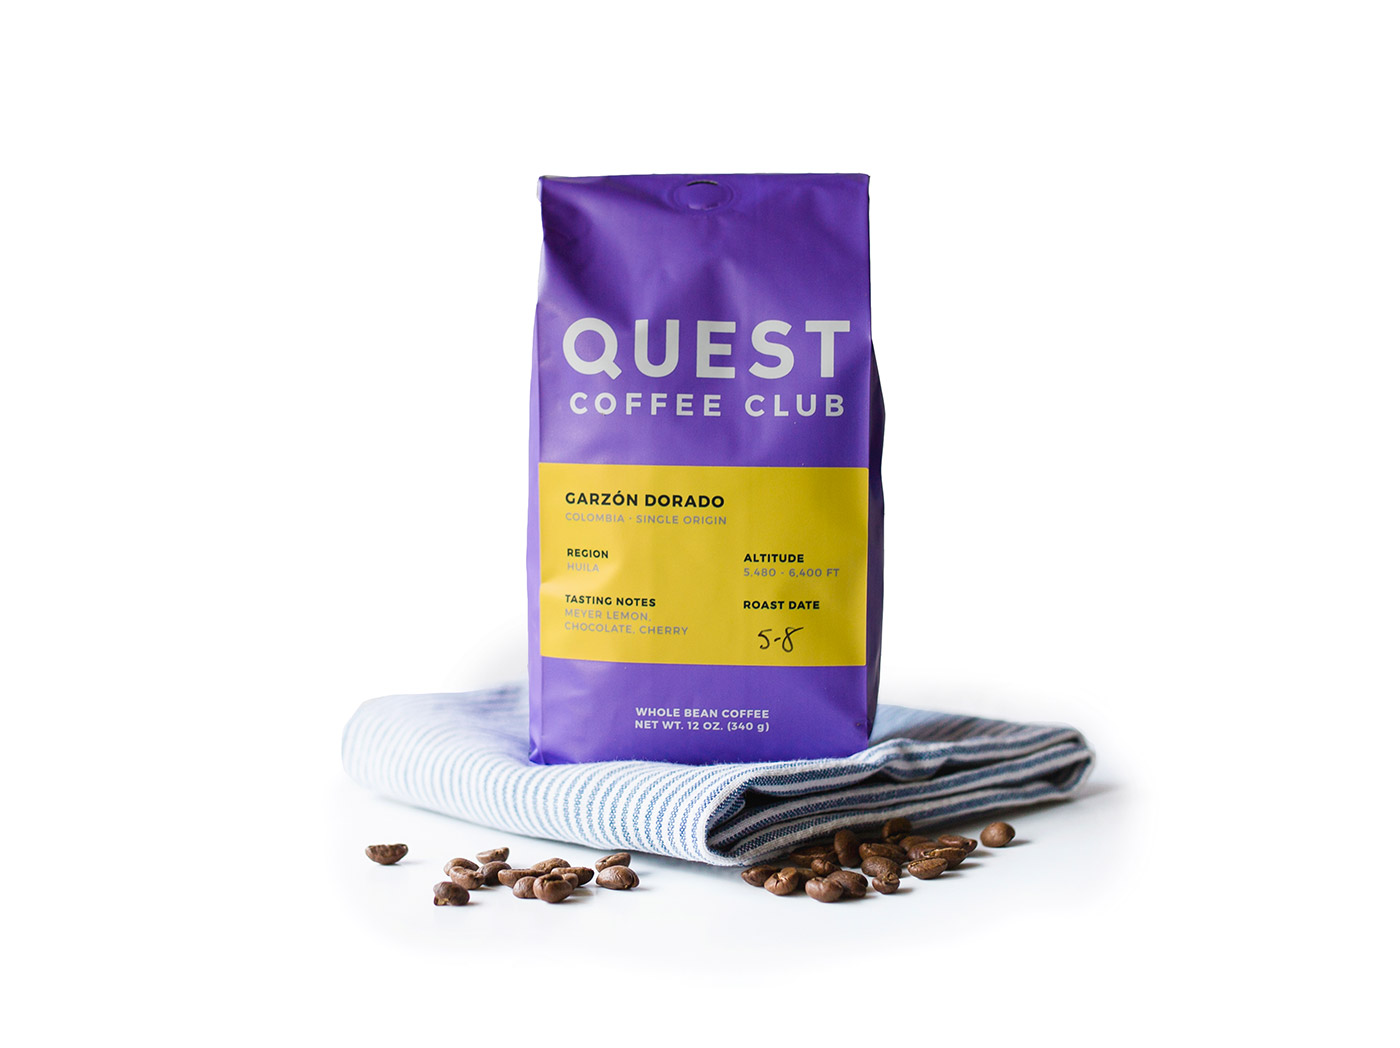
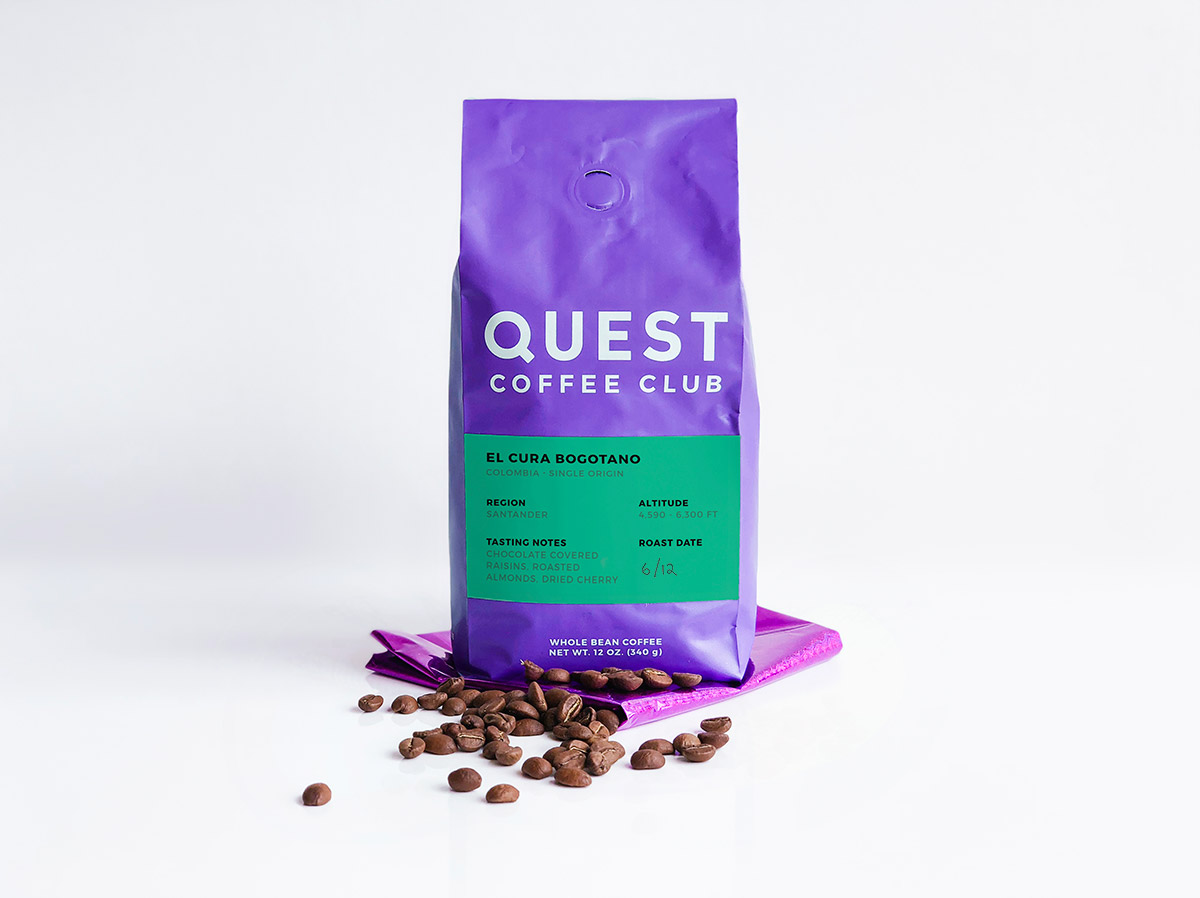
added page for June coffee

Changed region(s): [[0.0, 0.0935, 0.8017, 0.9042], [0.0, 0.0, 0.1233, 0.0935], [0.2467, 0.8731, 0.2775, 0.9042]]

diff --git a/my_collections/_our-coffees/06-18-el-cura-bogotano.md b/my_collections/_our-coffees/06-18-el-cura-bogotano.md
@@ -1,0 +1,29 @@
+---
+title: El Cura Bogotano, June 2018
+description: The story behind our June 2018 coffee, El Cura Bogotano.
+keywords: coffee, Colombia, El Cura Bogotano, Santander, priest, bogota, colombia, Salazar de Las Palmas, Francisco Romero
+layout: coffee
+name: El Cura Bogotano
+organic: f
+country: Colombia
+region: Santander
+altitude: 4,590 - 6,300 Ft
+tasting_notes: Chocolate covered raisins, roasted almonds, dried cherry
+month: June 2018
+roast_date: 2018-06-12 12:00:00 -0000
+background_image: /assets/images/coffee-pages/coffee_background_el_cura_bogotano@2x.jpg
+image_coffee: /assets/images/coffee-pages/coffee_image_el_cura_bogotano@2x.jpg
+image_thumbnail: /assets/images/coffee-pages/coffee_thumbnail_el_cura_bogotano@2x.jpg
+teaser: Tasting notes of chocolate covered raisins, roasted almonds and dried cherry... all thanks to a priest in the 1700s.
+---
+<h5>Continuing the tradition...</h5>
+
+<p>According to local legend and literary sources, in the late 1700s a priest in the small city of Salazar de Las Palmas (in the northeast of Colombia in the Santander region) requested a unique penance of his parishioners: Instead of Hail Marys and Our Fathers, Father Francisco Romero requested of those seeking penance that they sow coffee plants in their lands.</p>
+
+<p>As the legend continues, this same priest from Bogota became the first coffee exporter in the history of Colombia when in 1835 he shipped 2,592 bags of coffee to the bordering country of Venezuela.</p>
+
+<p>This month's coffee, "El Cura Bogotano" (The priest from Bogota), is the result of 41 different family producers from Santander, continuing the tradition of Father Francisco Romero over 200 years later.</p> 
+
+<p>In our numerous cuppings of "El Cura Bogotano" we noted a very balanced coffee with low acidity and tasting notes of chocolate covered raisins, roasted almonds, and dried cherry. Kudos, Father Romero.</p>
+
+<p>We're thrilled to bring the results of this Santander legend to your coffee cups for the month of June. We hope you enjoy it as much as we do. Please let us know what you think on Facebook, Instagram or via <a href="mailto:hello@questcoffeeclub.com">hello@questcoffeeclub.com</a>!</p>

diff --git a/index.md b/index.md
@@ -36,9 +36,9 @@ keywords: coffee, single origin, small-batch roasted, artisanal, Colombia, Colom
         <h2>We send you delicious coffee</h2>
         <div class="expand">
             <div class="third">
-                <h3>Say hi to our April coffee</h3>
-                <p>With tasting notes of Meyer lemon, chocolate and cherry, "Garzón Dorado" is a remarkably delicious expression of Colombian coffee.</p>
-                <a href="/our-coffees/05-18-garzon-dorado" class="button button-secondary-white button-with-arrow button-medium button-left">Read more<span class="button-arrow"></span></a>
+                <h3>Say hi to our June coffee</h3>
+                <p>Tasting notes of chocolate covered raisins, roasted almonds and dried cherry... all thanks to a priest in the 1700s.</p>
+                <a href="/our-coffees/06-18-el-cura-bogotano" class="button button-secondary-white button-with-arrow button-medium button-left">Read more<span class="button-arrow"></span></a>
             </div>
             <div class="two-thirds image-right">
                 <img src="/assets/images/product-shot@2x.jpg" />
